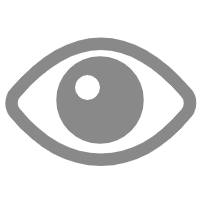
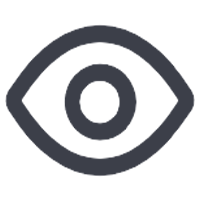
优化图标。完善附件管理

diff --git a/pages/attachment/addAttachment/addAttachment.vue b/pages/attachment/addAttachment/addAttachment.vue
@@ -1,6 +1,18 @@
 <template>
 	<view>
-		
+		<u-notice-bar :text="notice" direction="column" :duration="3500"></u-notice-bar>
+		<view class="block">
+			<u-upload 
+				:fileList="fileList"
+				@afterRead="afterRead" 
+				name="imgUpload" 
+				multiple 
+				:maxCount="20"
+				:previewFullImage="true" 
+				:deletable="false"
+				:disabled="isUploading"
+				uploadText="选择图片"></u-upload>
+		</view>
 	</view>
 </template>
 
@@ -8,15 +20,82 @@
 	export default {
 		data() {
 			return {
+				// 上传的图片列表
+				fileList: [],
 				
+				// 标记当前是否正在上传中
+				isUploading: false,
+				
+				notice: ["上传图片时如果不选择\"原图\",会对图片进行压缩", "拍摄的图片会默认进行压缩"]
 			}
 		},
 		methods: {
+			/**
+			 * 上传图片组件读取事件
+			 * @param {Object} e
+			 */
+			async afterRead(event) {
+				let that = this;
+				let lists = [].concat(event.file);
+				let fileListLen = this.fileList.length;
+				// 将选择的图片加入上传列表中
+				lists.map((item) => {
+					this.fileList.push({
+						...item,
+						status: "uploading",
+						message: '上传中'
+					});
+				});
+				this.isUploading = true;
+				for (let i = 0; i < lists.length; i++) {
+					let item = this.fileList[fileListLen];
+					await this.uploadImagePromise(lists[i].url).then(data => {
+						that.fileList.splice(fileListLen, 1, Object.assign(item, {
+							status: "success",
+							message: ""
+						}));
+					}).catch(err => {
+						that.fileList.splice(fileListLen, 1, Object.assign(item, {
+							status: "uploading",
+							message: "上传失败"
+						}));
+					});
+					console.log(i);
+					fileListLen++;
+				}
+				this.isUploading = false;
+			},
 			
+			/**
+			 * 上传图片
+			 * @param {Object} url
+			 */
+			uploadImagePromise: function(url) {
+				let that = this;
+				return new Promise((resolved, rejected) => {
+					uni.uploadFile({
+						url: that.getUrl() + "/api/admin/attachments/upload",
+						filePath: url,
+						name: 'file',
+						header: {
+							"ADMIN-Authorization": that.getAccessToken()
+						},
+						success: (res) => {
+							resolved(res);
+						},
+						fail: (err) => {
+							rejected(err.errMsg);
+						}
+					});
+				});
+			}
 		}
 	}
 </script>
 
 <style>
-
+	.block {
+		padding: 20rpx;
+		padding-bottom: 0rpx;
+	}
 </style>

diff --git a/network/AttachmentApi.js b/network/AttachmentApi.js
@@ -1,4 +1,5 @@
 import request from "./Request.js";
+import Vue from "../main.js"
 
 /**
  * 根据条件获取附件
